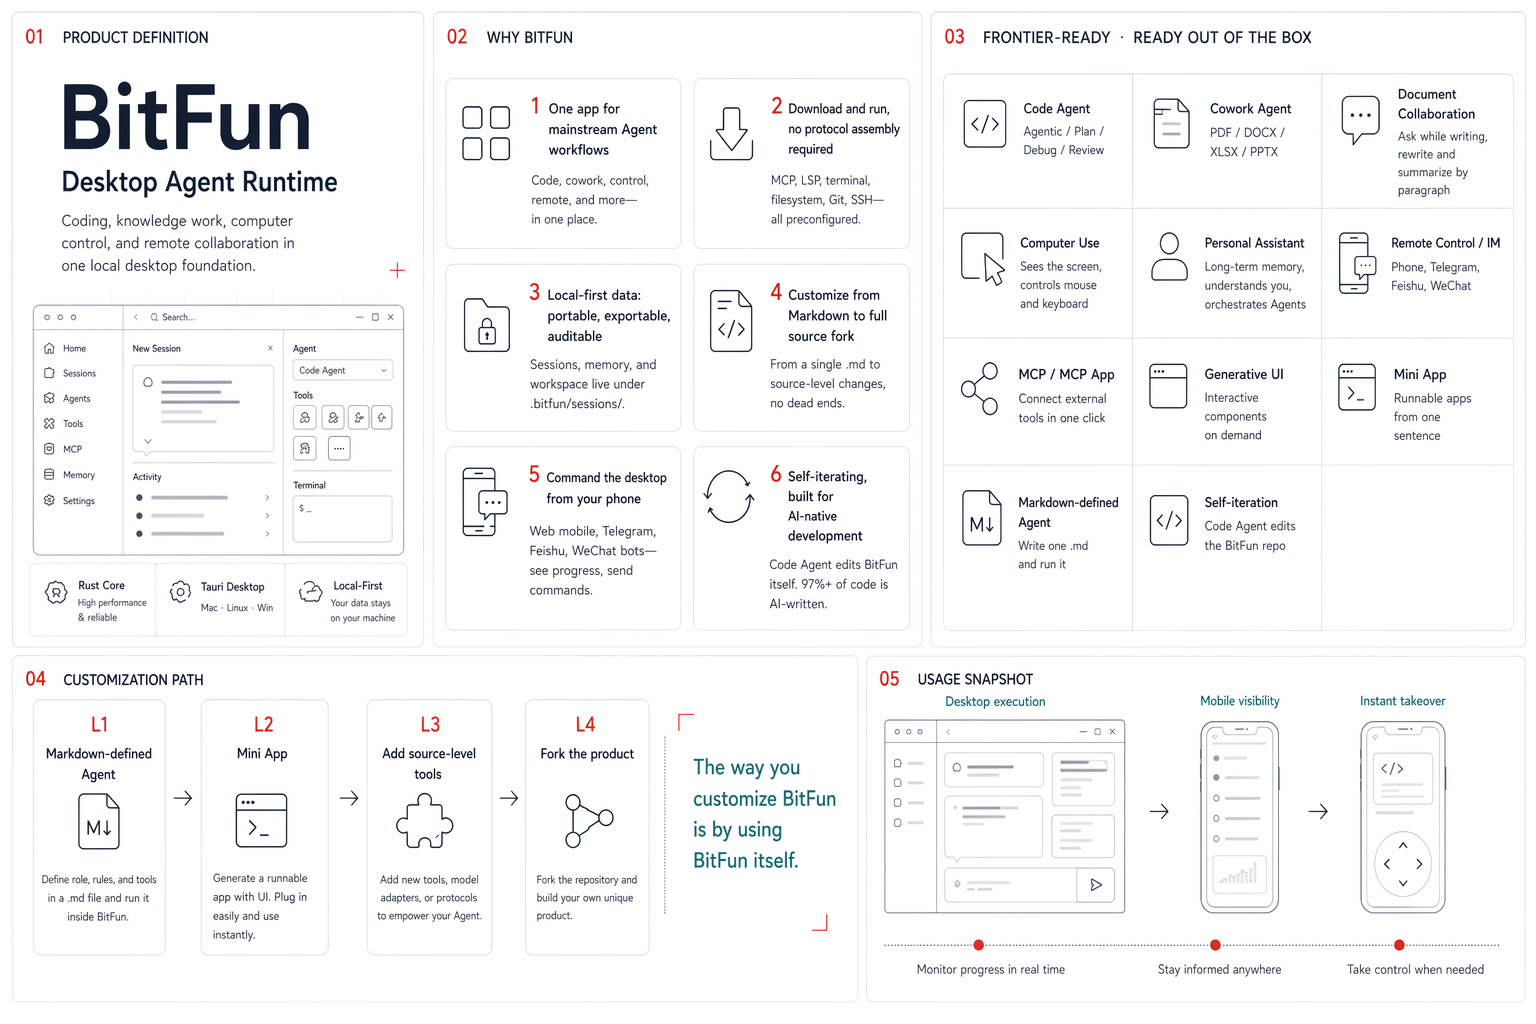
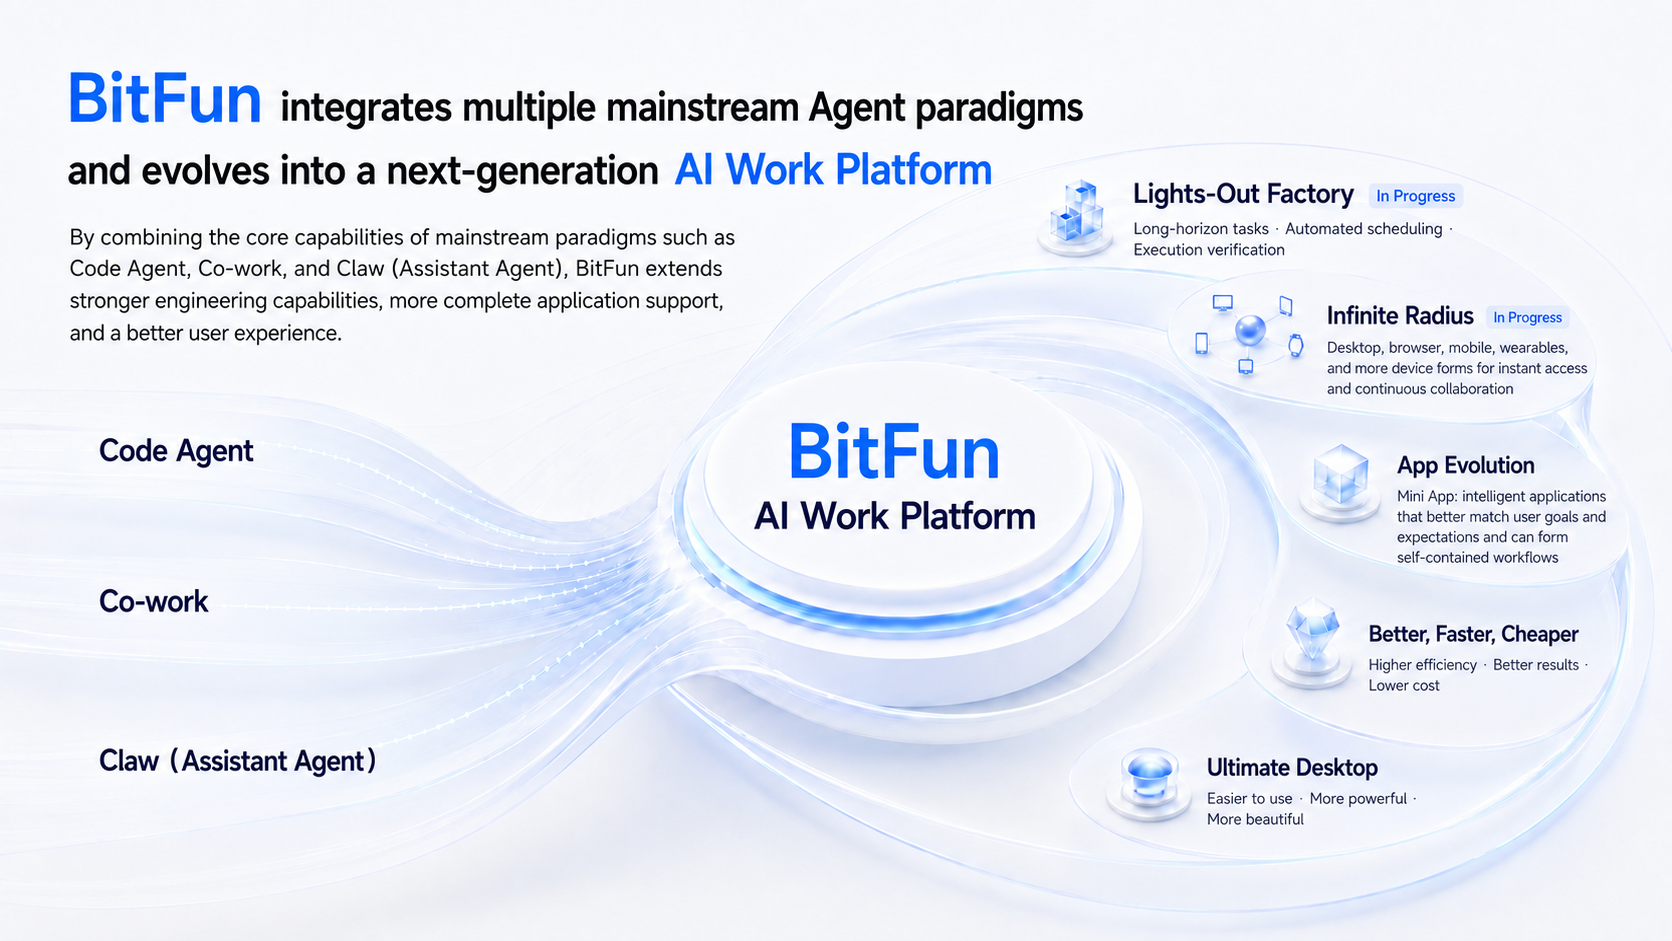
docs: refresh README visuals and product positioning

diff --git a/README.md b/README.md
@@ -18,15 +18,17 @@
 
 ---
 
-## Local AI Workbench Built Around the Code Agent
+## A New-Generation Foundation for Agentic Applications
 
-BitFun is a local AI workbench built around a Code Agent designed for long-horizon tasks, engineering execution, and token economy.
+BitFun puts the engineering capabilities of the Code Agent at its core and brings together Co-work and Claw (Assistant Agent) for coding, office work, and more real-world scenarios—creating a local-first, new-generation foundation for agentic applications, powered by a Rust-built Agent Runtime and a polished desktop app experience.
 
-It can understand complex context, call tools, wait for results, correct deviations, and keep long-horizon tasks moving until they reach a deliverable state. Coding, research, office work, documents, desktop operations, and extensible workflows all happen in the same local desktop environment.
+- **Lights-Out Factory** (In Progress): Design during the day, let tasks flow to the server and run through the night, then review the results in the morning.
+- **Infinite Radius** (In Progress): Extending from desktop and browser to mobile, wearables, and more devices, so work stays accessible and continuous.
+- **App Evolution**: Build tailored workflows with custom Agents, MCP, Skills, Mini Apps, or source-level customization. **Community contributors have already created specialized versions for short-form drama, media, and more**.
+- **Better, Faster, Cheaper**: Pursue greater efficiency, better results, and lower cost.
+- **Ultimate Desktop**: Continuously refine an easier-to-use, more capable, and more beautiful desktop experience.
 
-Core goal: move AI from iterative Agent Loop execution into a productivity system that can autonomously complete long-horizon work.
-
-![readme_hero](./png/readme_hero_CN.png)
+![readme_hero](./png/readme_hero.png)
 
 ---
 
@@ -48,13 +50,13 @@ Benchmark references: [SWE-Bench-Pro](https://labs.scale.com/leaderboard/swe_ben
 
 Agent economy needs to be evaluated across end-to-end token consumption, execution time, and KV Cache reuse. The current snapshot first covers KV Cache behavior from the same SWE-Bench-Pro round: BitFun's average KV Cache hit rate was **98.67%**. The follow-up full benchmark report will add the broader cost and latency metrics.
 
-![KV Cache hit rate distribution](./png/kv_cache_hit_rate.svg)
+![KV Cache hit rate distribution](./png/kv_cache_hit_rate.png)
 
 ### 3. Other Experience Metrics
 
 Beyond cost, Agent experience also depends on how quickly it can retrieve context in very large engineering projects. For tens-of-millions-line repositories such as Chromium, BitFun uses **flashgrep** to reduce search time by up to about **94.6%**, with an average speedup of about **36.1x**.
 
-![flashgrep search speed](./png/flashgrep_search_speed.svg)
+![flashgrep search speed](./png/flashgrep_search_speed.png)
 
 ---
 
